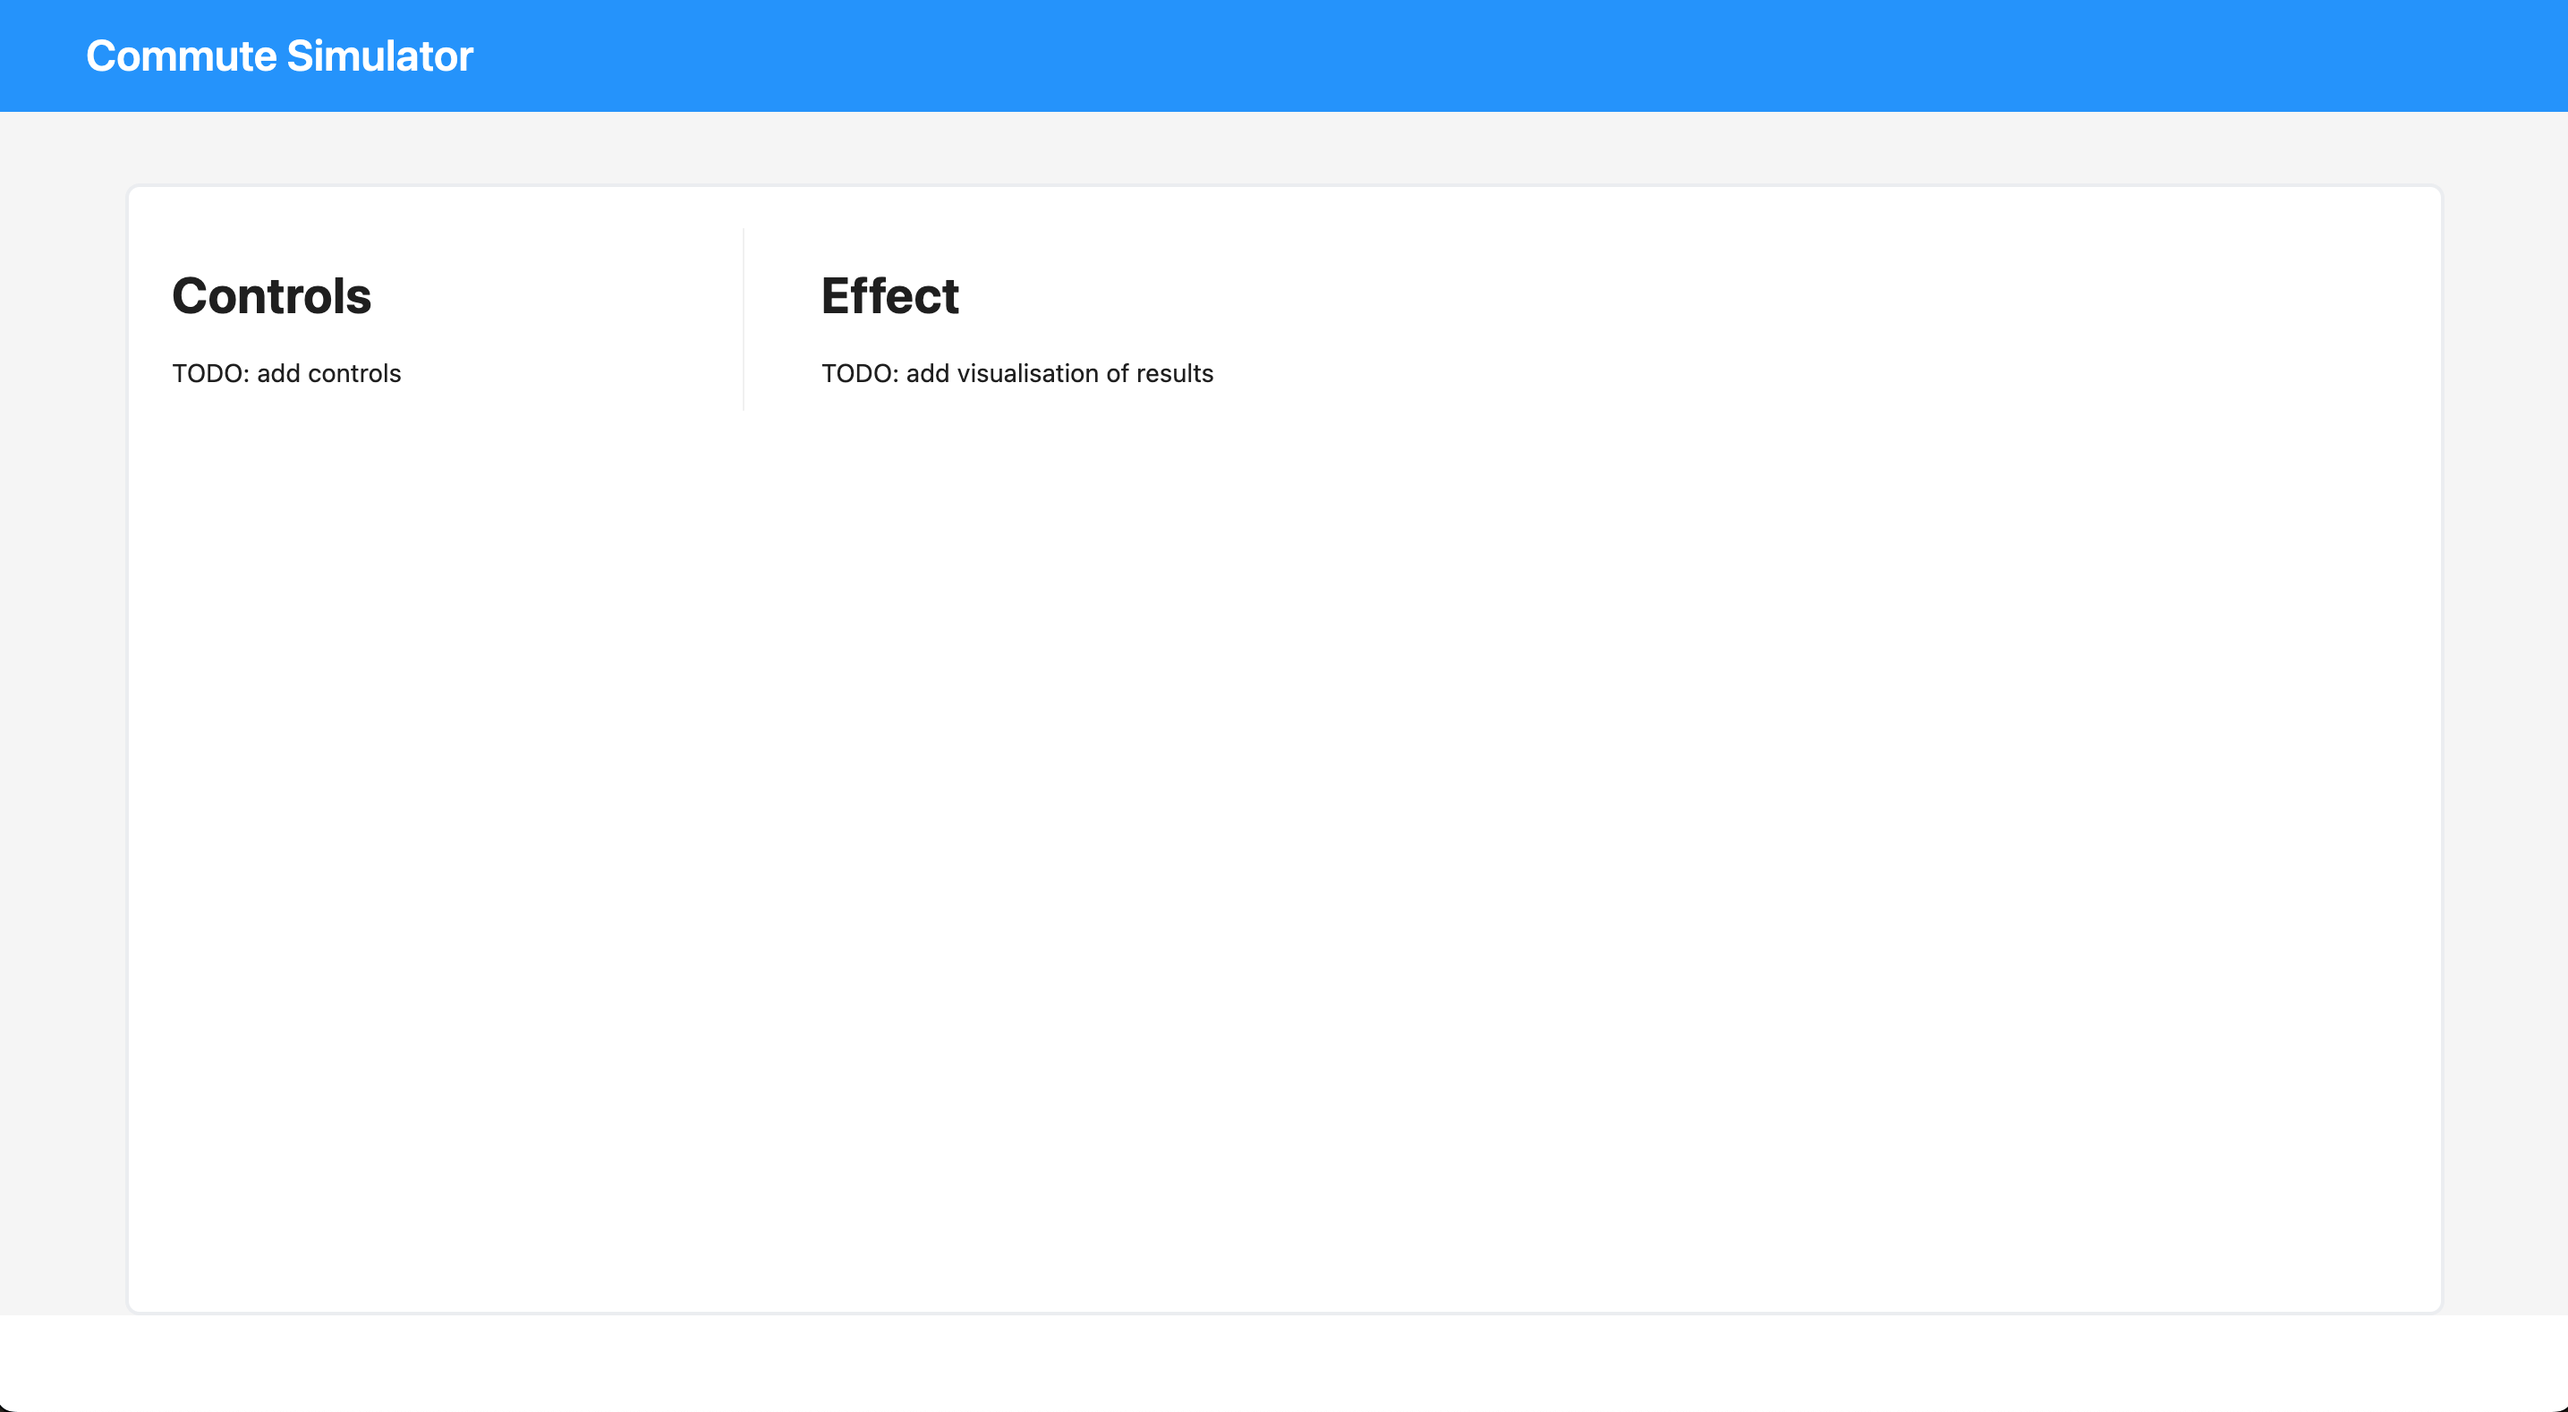
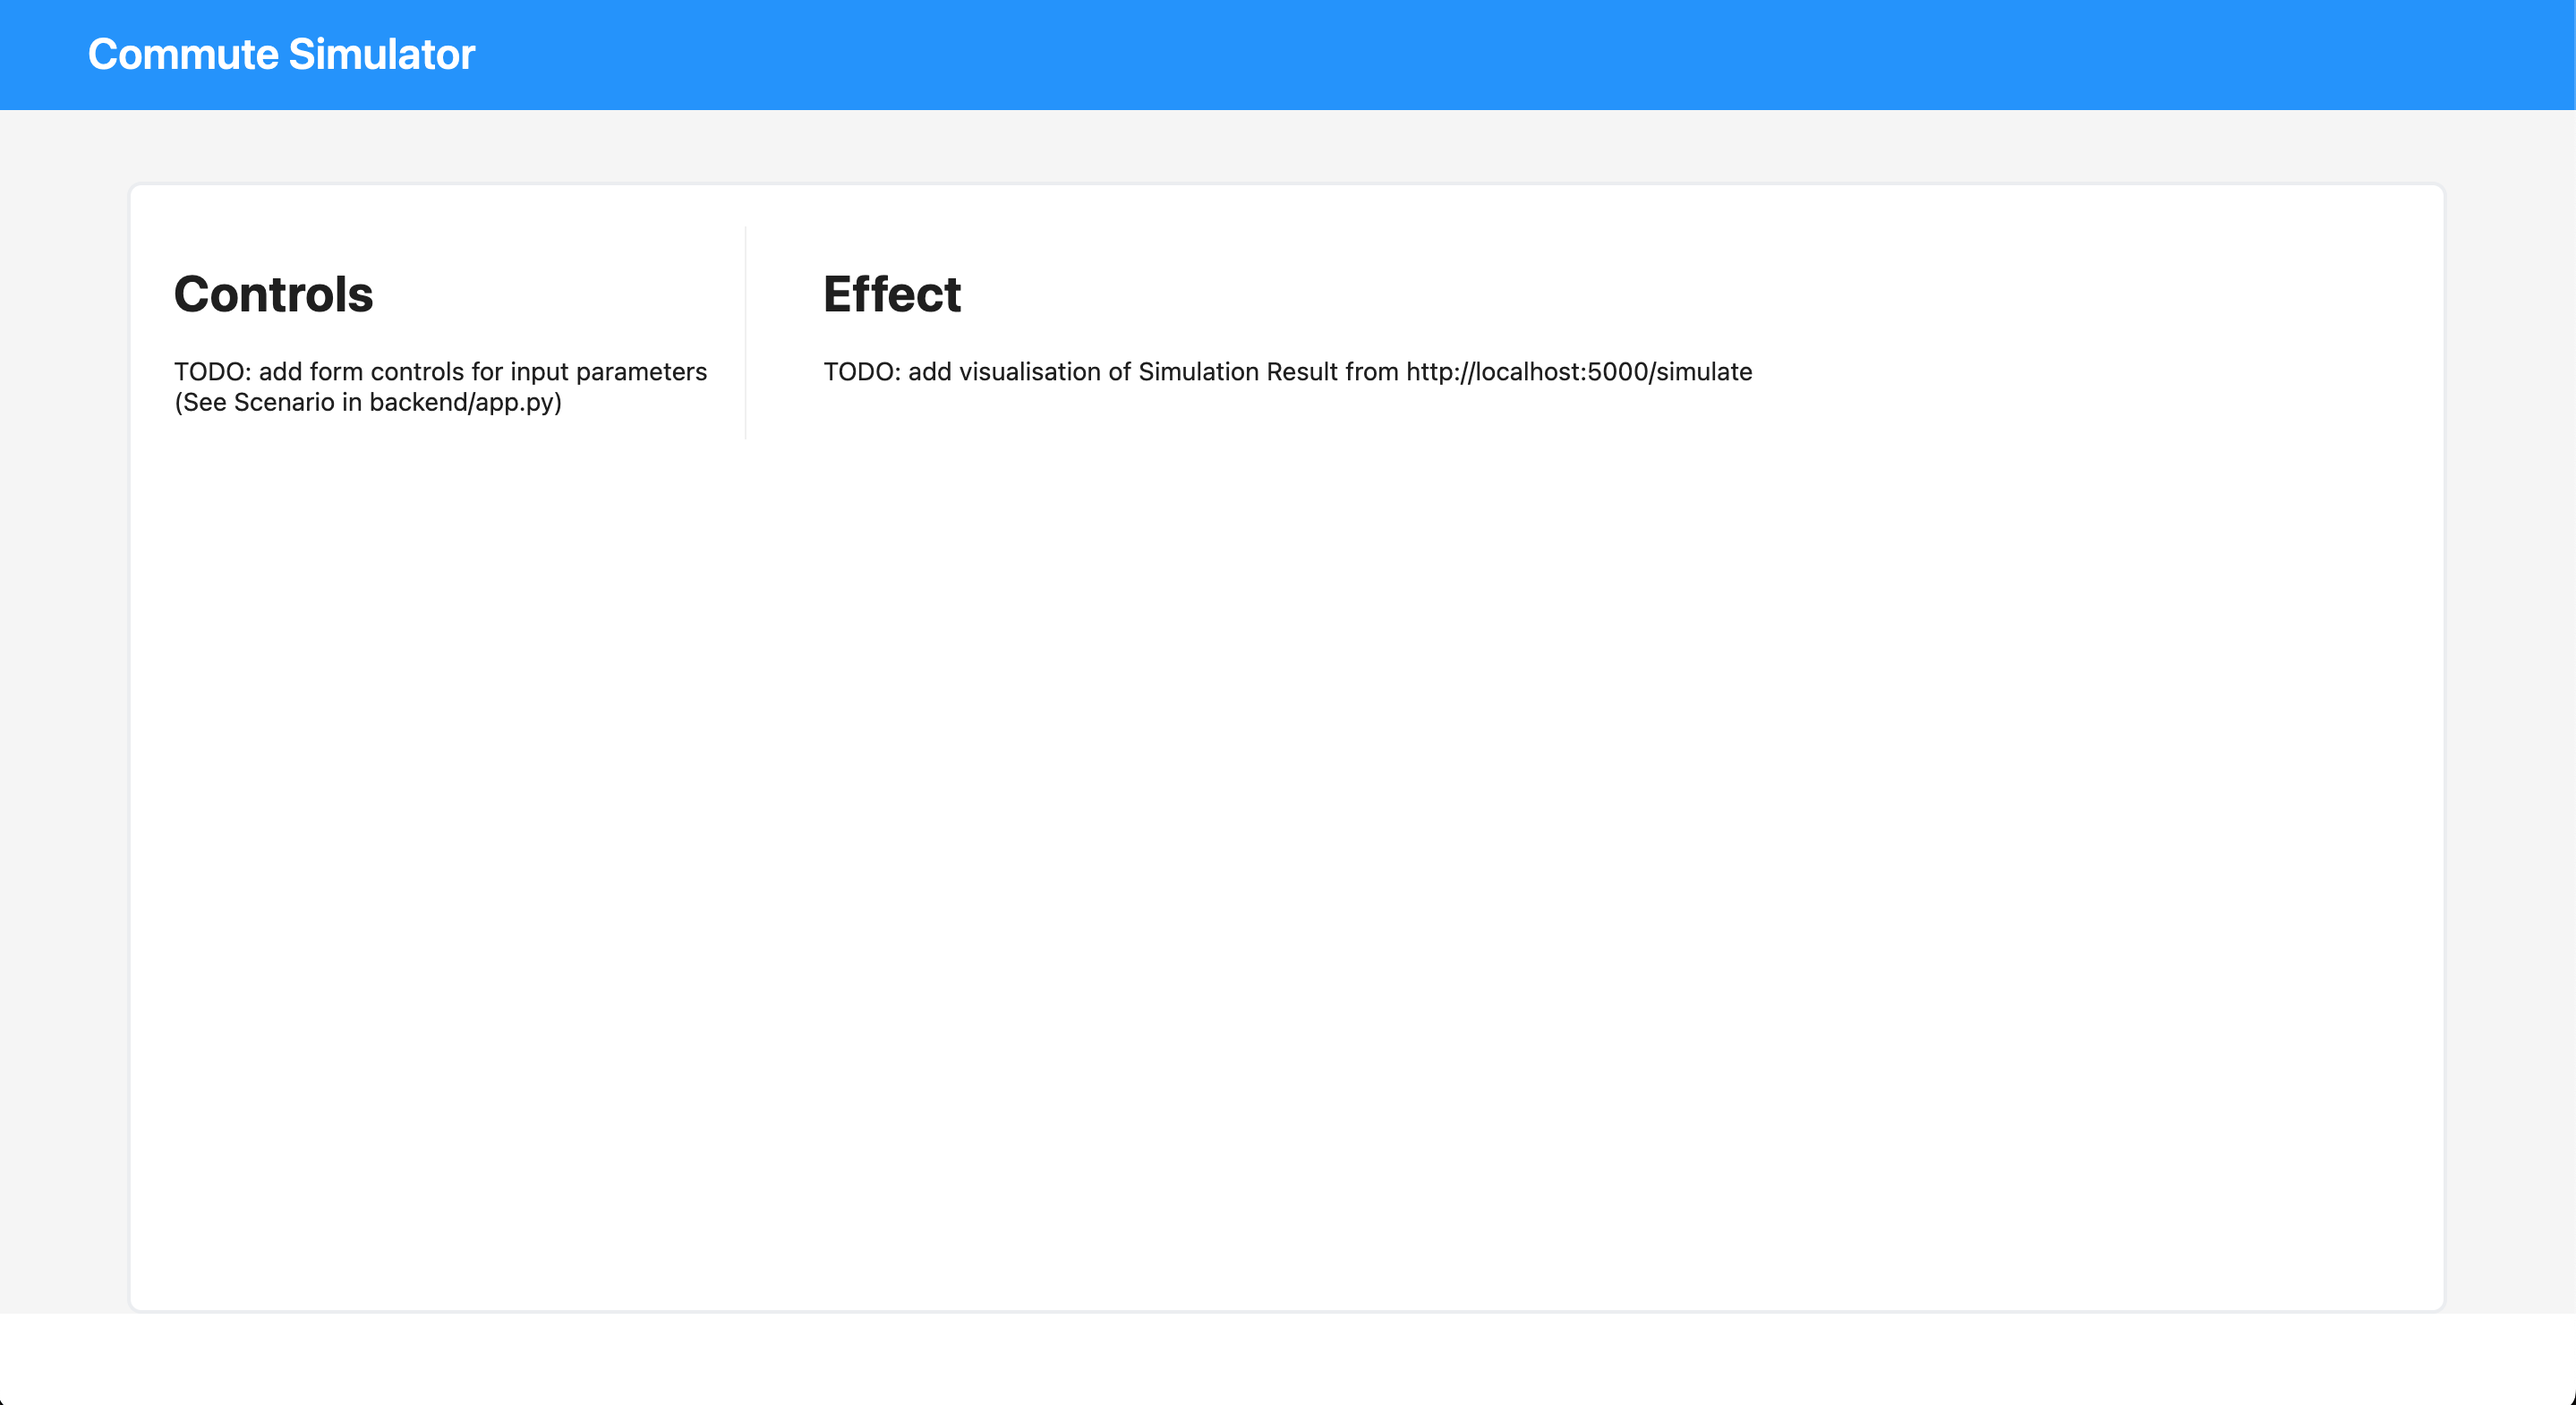
Add cors support

diff --git a/backend/app.py b/backend/app.py
@@ -2,6 +2,7 @@ from flask import Flask, abort, request
 from dataclasses import dataclass, asdict
 from enum import Enum
 import json
+from flask_cors import CORS
 
 
 class CommuteMode(str, Enum):
@@ -91,6 +92,8 @@ def simulate_commute(scenario: Scenario) -> SimulationResult:
 
 
 app = Flask(__name__)
+
+CORS(app)
 
 
 @app.route("/")

diff --git a/README.md b/README.md
@@ -1,28 +1,29 @@
-# Full Stack Coding Exercise
+# Full Stack Developer Coding Exercise - Employee Commuting Simulator
 
-Employee Commuting Simulator - estimate the carbon emission associated with a different commuting options.
+Employee Commuting Simulator - estimate the carbon emissions associated with a different commuting options.
 
 ## Task
 
-Implement a simple UI for an employee commuting simulator using Typescript, React, React Router and Ant Design.
+Your task is to implement a simple UI for an employee commuting simulator using Typescript, React, React Router and Ant Design.
 
-![](./docs/images/starting_point.png)
+_User Story:_ As a user, I want to explore different options for traveling to work so that I understand the impacts of my choices.
+
+Here is the starting point for the frontend: ![](./docs/images/starting_point.png)
 
 A basic python API is provided in [](./backend/app.py) which you will use from the frontend to simulate carbon emissions. See API documentation below.
 
 Your solution should:
 
-* Provide a simple, clear form input to change simulation parameters
-* Provide an empty state for when you first navigate to the page and no parameters are specified
-* Provide a chart / visualisation of the "total_kg_co2e" by commute mode (see `SimulationResult.total_kg_co2e_per_mode` in [./backend/app.py](./backend/app.py))
-* Provide a chart / visualisation of the overall "total_kg_co2e" (see [./backend/app.py](./backend/app.py))
-* Gracefully handle slow API responses
+__Simulation Input__
 
+* Provide a simple, clear form input to change simulation parameters (see the `Scenario` data type and `simulate` API endpoint in [./backend/app.py](./backend/app.py) to understand the possible inputs / parameters)
+* Call the http api at http://localhost:5000/simulate to simulate a given scenario.
 
-### User Story
+__Simulation Output__
 
-_User Story:_ As a user, I want to explore different options for traveling to work so that I understand the impacts of my choices.
-
+* Provide a visualisation of the overall `total_kg_co2e` (see `SimulationResults.total_kg_co2e` in [./backend/app.py](./backend/app.py)) for a given `SimulationResult`. Ant Design's `Statistic` component might be a good option.
+* Provide a bar chart showing the the "total_kg_co2e" by commute mode (see `SimulationResult.total_kg_co2e_per_mode` in [./backend/app.py](./backend/app.py)) for a simulation result. https://echarts.apache.org/en/index.html or https://react-chartjs-2.js.org/ may be a good option.
+* Provide a description / visualisationof the Scenario that was simulated (See `SimulationResult.scenario`)
 
 ## Dev Setup
 
